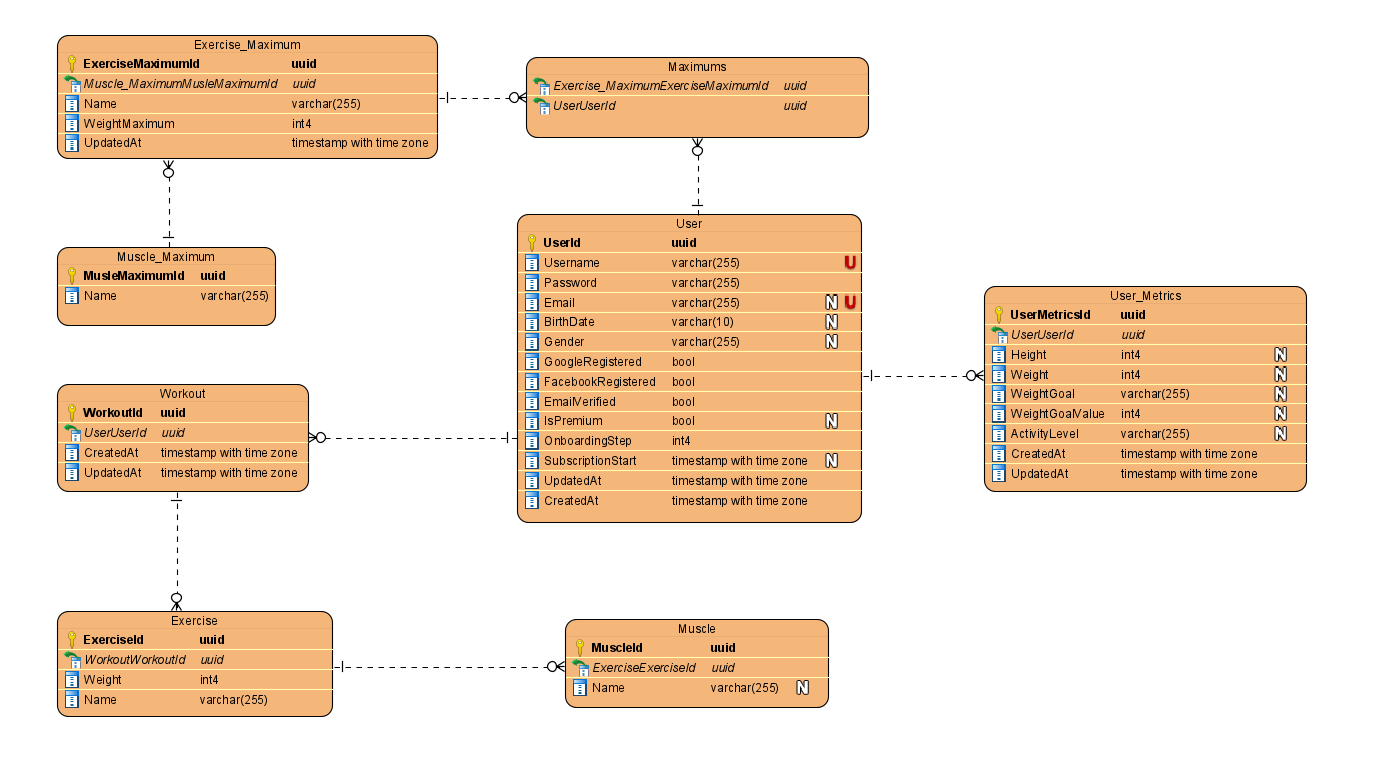
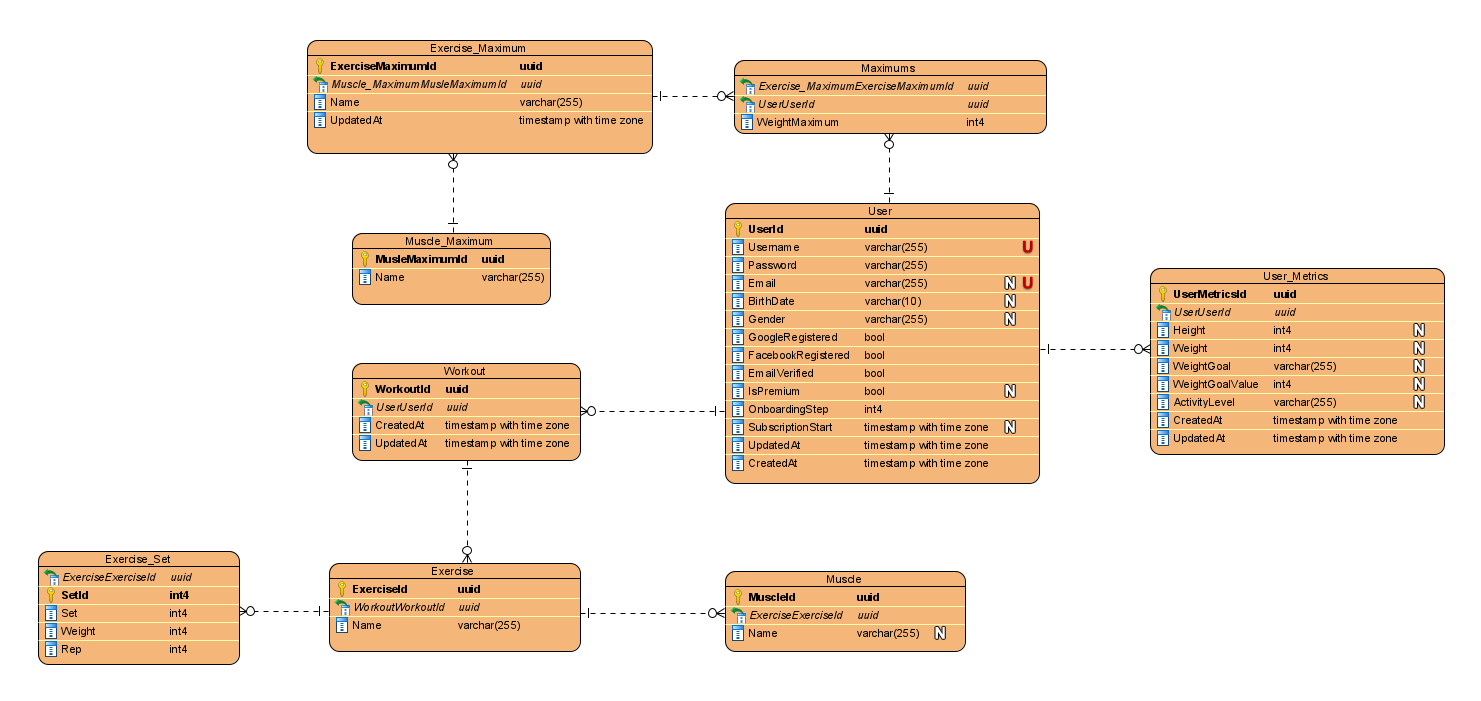
update: new entities, old entities update, enitity schema, creating and querying workout start

diff --git a/server/src/resolvers/workout.ts b/server/src/resolvers/workout.ts
@@ -1,0 +1,105 @@
+import { isAuthenticated } from "../middleware/isAuthenticated";
+import { UserMetrics } from "../entities/UserMetrics";
+import {
+  Arg,
+  Ctx,
+  Field,
+  InputType,
+  Mutation,
+  ObjectType,
+  Query,
+  Resolver,
+  UseMiddleware,
+} from "type-graphql";
+import { MyContext } from "src/types";
+import { User } from "../entities/User";
+import { Workout } from "../entities/Workout";
+import { Exercise } from "src/entities/Exercise";
+import { getConnection } from "typeorm";
+
+@ObjectType()
+class CreateWorkoutResponse {
+  @Field(() => Workout, { nullable: true })
+  workout?: Workout;
+}
+
+@InputType()
+class SetInput {
+  @Field(() => Number)
+  weight: number;
+
+  @Field(() => Number)
+  reps: number;
+}
+
+@InputType()
+class ExercisesInput {
+  @Field(() => String)
+  name: string;
+
+  @Field(() => [String])
+  muscles: string[];
+
+  @Field(() => [SetInput])
+  sets: SetInput[];
+}
+
+@InputType()
+class CreateWorkoutInput {
+  @Field(() => Date)
+  date: Date;
+
+  @Field(() => [ExercisesInput])
+  exercises: ExercisesInput[];
+}
+
+@Resolver(UserMetrics)
+export class WorkoutResolver {
+  // ===========================
+  // ====== FIELD RESOLVERS ====
+  // ===========================
+  // ===========================
+  // ========= QUERYS ==========
+  // ===========================
+
+  @Query(() => [Workout], { nullable: true })
+  @UseMiddleware(isAuthenticated)
+  async getUserWorkouts(@Ctx() { req }: MyContext) {
+    const { userId } = req.session;
+
+    const workouts = await Workout.find({ where: { user: userId } });
+
+    if (!workouts) {
+      return null;
+    }
+
+    return workouts;
+  }
+
+  // ===========================
+  // ======= MUTATIONS =========
+  // ===========================
+
+  // workout -> exercises -> muscles
+
+  @Mutation(() => CreateWorkoutResponse, { nullable: true })
+  @UseMiddleware(isAuthenticated)
+  async createWorkout(
+    @Arg("input") input: CreateWorkoutInput,
+    @Ctx() { req }: MyContext,
+  ) {
+    const { userId } = req.session;
+
+    const connection = await getConnection();
+
+    const muscles = input.exercises.map(exercise => exercise.muscles);
+
+    const exercises = input.exercises.map(exercise => {});
+
+    console.log({ exercises });
+
+    const workoutRepository = await connection;
+
+    return null;
+  }
+}

diff --git a/server/src/index.ts b/server/src/index.ts
@@ -19,11 +19,13 @@ import { User } from "./entities/User";
 import { UserMetrics } from "./entities/UserMetrics";
 import { Muscle } from "./entities/Muscle";
 import { Exercise } from "./entities/Exercise";
+import { ExerciseSet } from "./entities/ExerciseSet";
 import { Workout } from "./entities/Workout";
 
 //Resolvers
 import { UserResolver } from "./resolvers/user";
 import { UserMetricsResolver } from "./resolvers/userMetrics";
+import { WorkoutResolver } from "./resolvers/workout";
 
 const main = async () => {
   oAuth2Client.setCredentials({ refresh_token: process.env.REFRESH_TOKEN });
@@ -37,7 +39,7 @@ const main = async () => {
     logging: true,
     synchronize: true,
     migrations: [path.join(__dirname, "./migrations/*")],
-    entities: [User, UserMetrics, Workout, Exercise, Muscle],
+    entities: [User, UserMetrics, Workout, Exercise, ExerciseSet, Muscle],
   });
 
   // await conn.runMigrations();
@@ -82,7 +84,7 @@ const main = async () => {
 
   const apolloServer = new ApolloServer({
     schema: await buildSchema({
-      resolvers: [UserResolver, UserMetricsResolver],
+      resolvers: [UserResolver, UserMetricsResolver, WorkoutResolver],
       validate: false,
     }),
     context: ({ req, res }) => ({

diff --git a/server/src/resolvers/userMetrics.ts b/server/src/resolvers/userMetrics.ts
@@ -1,4 +1,4 @@
-import { isAuth } from "./../middleware/isAuth";
+import { isAuthenticated } from "../middleware/isAuthenticated";
 import { UserMetrics } from "../entities/UserMetrics";
 import {
   Arg,
@@ -60,9 +60,8 @@ export class UserMetricsResolver {
     const { userId } = req.session;
 
     const userMetrics = await UserMetrics.find({ where: { user: userId } });
-    console.log(userMetrics);
 
-    if (!UserMetrics) {
+    if (!userMetrics) {
       return null;
     }
 
@@ -74,7 +73,7 @@ export class UserMetricsResolver {
   // ===========================
 
   @Mutation(() => UpdateOnboardingResponse)
-  @UseMiddleware(isAuth)
+  @UseMiddleware(isAuthenticated)
   async finishOnboarding(
     @Arg("input") input: CreateUserMetricsInput,
     @Ctx() { req }: MyContext,

diff --git a/server/src/entities/Exercise.ts b/server/src/entities/Exercise.ts
@@ -7,6 +7,7 @@ import {
   ManyToOne,
   OneToMany,
 } from "typeorm";
+import { ExerciseSet } from "./ExerciseSet";
 import { Muscle } from "./Muscle";
 import { Workout } from "./Workout";
 
@@ -18,14 +19,6 @@ export class Exercise extends BaseEntity {
   @PrimaryGeneratedColumn()
   id!: number;
 
-  @Field(() => Number)
-  @Column()
-  set: number;
-
-  @Field(() => Number)
-  @Column()
-  weight: number;
-
   @Field(() => String)
   @Column()
   name: string;
@@ -36,4 +29,10 @@ export class Exercise extends BaseEntity {
 
   @OneToMany(() => Muscle, (muscle: Muscle) => muscle.exercise)
   muscle: Muscle;
+
+  @OneToMany(
+    () => ExerciseSet,
+    (exerciseSet: ExerciseSet) => exerciseSet.exercise,
+  )
+  exerciseSet: ExerciseSet;
 }

diff --git a/server/src/entities/ExerciseSet.ts b/server/src/entities/ExerciseSet.ts
@@ -1,0 +1,34 @@
+import { Field, Int, ObjectType } from "type-graphql";
+import {
+  Column,
+  Entity,
+  BaseEntity,
+  PrimaryGeneratedColumn,
+  ManyToOne,
+} from "typeorm";
+import { Exercise } from "./Exercise";
+
+@ObjectType()
+@Entity()
+export class ExerciseSet extends BaseEntity {
+  // SQL
+  @Field(() => Int)
+  @PrimaryGeneratedColumn()
+  id!: number;
+
+  @Field(() => Number)
+  @Column()
+  set: number;
+
+  @Field(() => Number)
+  @Column()
+  weight: number;
+
+  @Field(() => Number)
+  @Column()
+  rep: number;
+
+  // Relations
+  @ManyToOne(() => Exercise, (exercise: Exercise) => exercise.exerciseSet)
+  exercise: Exercise;
+}

diff --git a/server/src/resolvers/user.ts b/server/src/resolvers/user.ts
@@ -1,4 +1,4 @@
-import { isAuth } from "./../middleware/isAuth";
+import { isAuthenticated } from "../middleware/isAuthenticated";
 import {
   Resolver,
   Mutation,
@@ -506,7 +506,7 @@ export class UserResolver {
   }
 
   @Mutation(() => User)
-  @UseMiddleware(isAuth)
+  @UseMiddleware(isAuthenticated)
   async changeOnboardingStep(
     @Ctx() { req }: MyContext,
     @Arg("step") step: number,

diff --git a/server/src/entities/UserMetrics.ts b/server/src/entities/UserMetrics.ts
@@ -40,11 +40,11 @@ export class UserMetrics extends BaseEntity {
   weight: number; // in grams
 
   @Field(() => String)
-  @UpdateDateColumn()
+  @UpdateDateColumn({ type: "timestamp with time zone" })
   updatedAt: Date;
 
   @Field(() => String)
-  @CreateDateColumn()
+  @CreateDateColumn({ type: "timestamp with time zone" })
   createdAt: Date;
 
   // Relations

diff --git a/server/src/entities/User.ts b/server/src/entities/User.ts
@@ -64,11 +64,11 @@ export class User extends BaseEntity {
   onboardingStep: number;
 
   @Field(() => String)
-  @UpdateDateColumn()
+  @UpdateDateColumn({ type: "timestamp with time zone" })
   updatedAt: Date;
 
   @Field(() => String)
-  @CreateDateColumn()
+  @CreateDateColumn({ type: "timestamp with time zone" })
   createdAt: Date;
 
   // Relations;

diff --git a/server/src/entities/Workout.ts b/server/src/entities/Workout.ts
@@ -20,11 +20,11 @@ export class Workout extends BaseEntity {
   id!: number;
 
   @Field(() => String)
-  @UpdateDateColumn()
+  @UpdateDateColumn({ type: "timestamp with time zone" })
   updatedAt: Date;
 
   @Field(() => String)
-  @CreateDateColumn()
+  @CreateDateColumn({ type: "timestamp with time zone" })
   createdAt: Date;
 
   // Relations

diff --git a/server/src/middleware/isAuthenticated.ts b/server/src/middleware/isAuthenticated.ts
@@ -1,7 +1,7 @@
 import { MiddlewareFn } from "type-graphql";
 import { MyContext } from "../types";
 
-export const isAuth: MiddlewareFn<MyContext> = ({ context }, next) => {
+export const isAuthenticated: MiddlewareFn<MyContext> = ({ context }, next) => {
   if (!context.req.session.userId) {
     throw new Error("not authenticated");
   }
